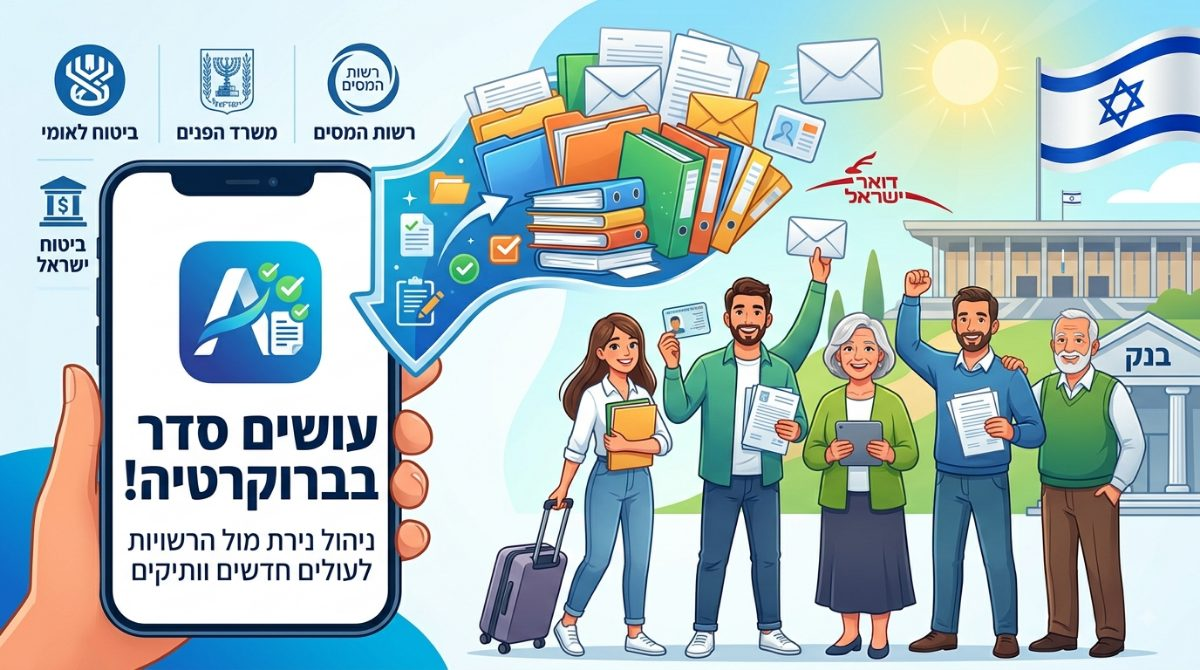
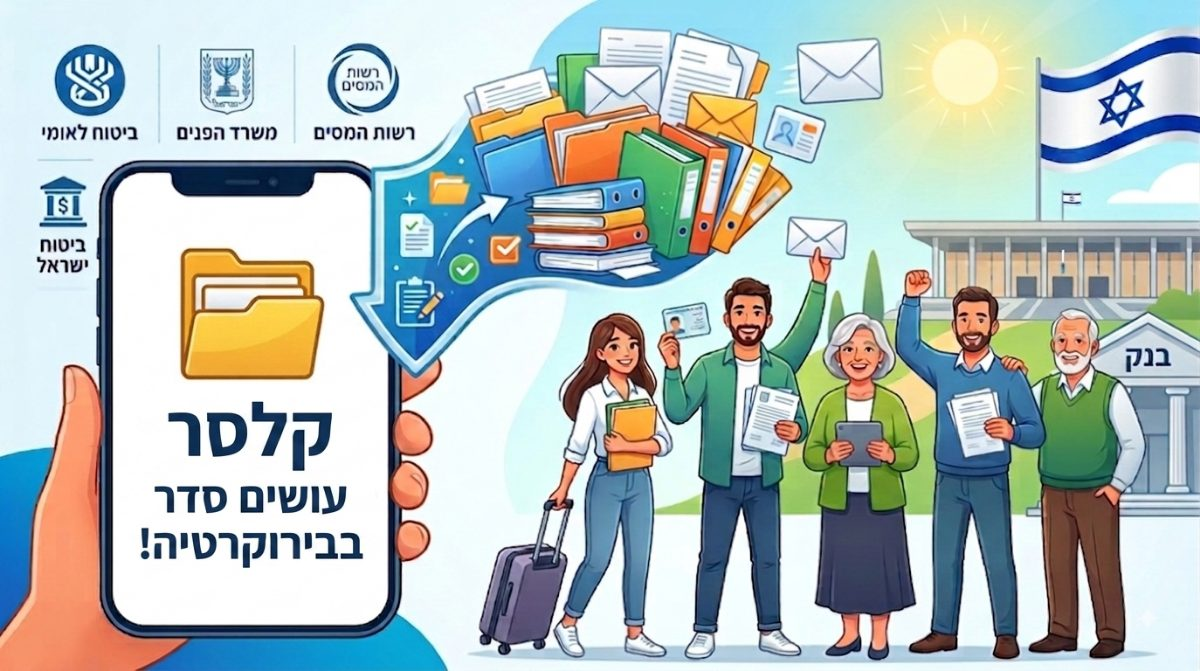
Show the intro video in the header, and refresh the share preview
The video (1280x720, 10s, H.264+AAC, 2.4MB) plays at the top of the page in
place of the icon and title.

It is treated as decorative, and the title is only *visually* replaced once
the video is confirmed playing:

- the <h1> stays in the DOM always, so screen readers and search engines
  still get the page's name
- if autoplay is blocked, the file fails to load, or the browser lacks the
  codec, the hero is removed and the text title simply stays visible -- the
  header is never blank
- prefers-reduced-motion removes the video outright and keeps the title
- muted + playsinline are what make autoplay permitted at all; the file
  carries an audio track that must never start on its own
- the box declares aspect-ratio 16/9 from the file's real dimensions, so
  there is no layout shift while it loads

Share preview regenerated from the corrected artwork (the previous
og-image.jpg came from the deleted Klaser.png and still carried the typo):
1374x768 1451KB -> 1200x671 JPEG 137KB, inside WhatsApp's limit. og:image
height updated to match.

The audit now reports third-party requests separately from the total. The
page fetches its own video, which is not data leaving the device; the
invariant worth asserting is that nothing goes to a third party, and that
remains zero.

222 assertions, zero failures.

Claude-Session: https://claude.ai/code/session_012ikxcV5iR2JZ3YVNq8MD6h

diff --git a/index.html b/index.html
@@ -18,7 +18,7 @@
 <meta property="og:image" content="https://shayh22.github.io/klaser/docs/og-image.jpg">
 <meta property="og:image:type" content="image/jpeg">
 <meta property="og:image:width" content="1200">
-<meta property="og:image:height" content="670">
+<meta property="og:image:height" content="671">
 <meta property="og:image:alt" content="קלסר — עושים סדר בבירוקרטיה">
 <meta name="twitter:card" content="summary_large_image">
 <meta name="twitter:title" content="קלסר — לא ללכת לאיבוד בבירוקרטיה">
@@ -94,6 +94,19 @@
   /* ---------- header ---------- */
   header.top{padding:22px 0 12px;text-align:center}
   header.top h1{margin:0;font-size:clamp(24px,5.5vw,34px);letter-spacing:-.5px}
+  /* the heading is only visually replaced once the video is actually playing,
+     so a blocked autoplay, a slow link or a missing codec never leaves the
+     page without a title */
+  header.top h1.replaced{
+    position:absolute;width:1px;height:1px;overflow:hidden;
+    clip:rect(0 0 0 0);white-space:nowrap;
+  }
+  .hero{
+    max-width:520px;margin:0 auto 10px;border-radius:16px;overflow:hidden;
+    background:var(--card-soft);border:1px solid var(--line);
+    aspect-ratio:16/9;   /* known from the file: 1280x720, so no layout shift */
+  }
+  .hero video{display:block;width:100%;height:100%;object-fit:cover}
   header.top .sub{margin:2px 0 0;color:var(--ink-soft);font-size:14.5px}
   .langbar{display:flex;gap:6px;justify-content:center;flex-wrap:wrap;margin:14px 0 0}
   @media (max-width:520px){
@@ -371,7 +384,12 @@
 
 <div class="wrap">
   <header class="top">
-    <h1>🗂 <span data-t="appTitle"></span></h1>
+    <div class="hero" id="hero" hidden>
+      <video id="heroVid" muted loop playsinline preload="metadata"
+             aria-hidden="true" tabindex="-1"
+             src="docs/gemini_generated_video_2d79698b.mp4"></video>
+    </div>
+    <h1 id="appH1">🗂 <span data-t="appTitle"></span></h1>
     <p class="sub" data-t="appTagline"></p>
     <div class="langbar" id="langbar" role="group" aria-label="Language"></div>
   </header>
@@ -1504,6 +1522,26 @@ $('#importFile').addEventListener('change', e => {
   r.readAsText(f);
   e.target.value = '';
 });
+
+/* ---------- header video ----------
+   Decorative only: the <h1> carries the name and is merely hidden once the
+   video is confirmed playing. Muted + playsinline is what makes autoplay
+   permitted at all; the file also carries an audio track, which must never
+   start on its own. */
+(function initHero(){
+  const wrap = $('#hero'), vid = $('#heroVid'), h1 = $('#appH1');
+  if(!wrap || !vid) return;
+  const reduce = window.matchMedia && window.matchMedia('(prefers-reduced-motion: reduce)').matches;
+  if(reduce){ wrap.remove(); return; }        /* keep the text heading instead */
+  vid.muted = true;                            /* belt and braces before play() */
+  vid.addEventListener('playing', () => {
+    wrap.hidden = false;
+    h1.classList.add('replaced');
+  }, {once:true});
+  vid.addEventListener('error', () => wrap.remove(), {once:true});
+  const attempt = vid.play();
+  if(attempt && attempt.catch) attempt.catch(() => wrap.remove());
+})();
 
 /* ======================= BOOT ======================= */
 load();
